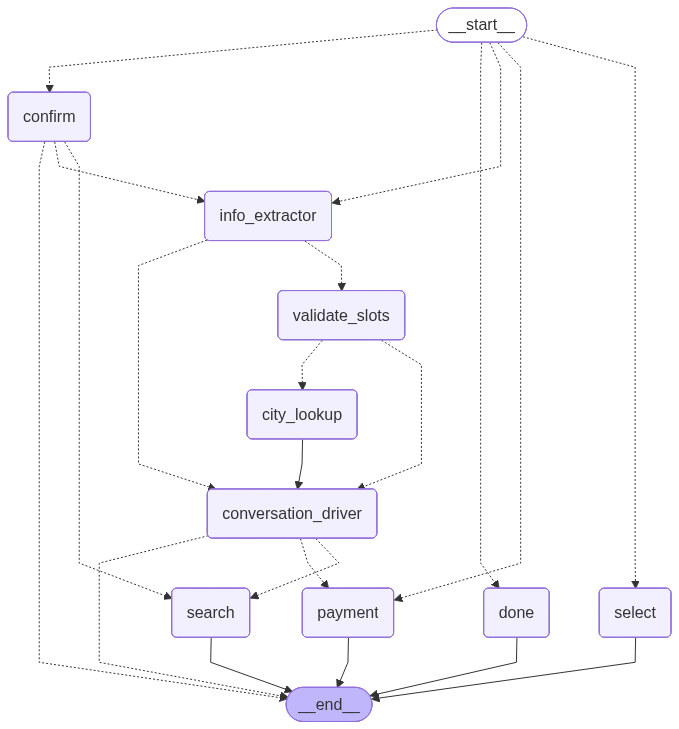
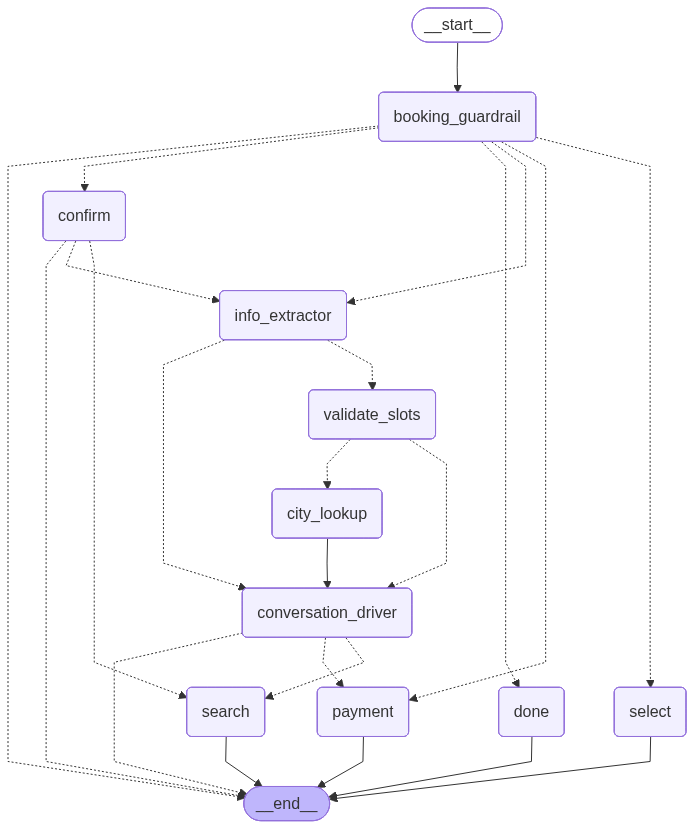
updated graphs

diff --git a/advanced/flight-booking-assistant/graph/booking_subgraph.md b/advanced/flight-booking-assistant/graph/booking_subgraph.md
@@ -8,6 +8,7 @@ config:
 ---
 graph TD;
 	__start__([<p>__start__</p>]):::first
+	booking_guardrail(booking_guardrail)
 	info_extractor(info_extractor)
 	validate_slots(validate_slots)
 	city_lookup(city_lookup)
@@ -18,11 +19,13 @@ graph TD;
 	payment(payment)
 	done(done)
 	__end__([<p>__end__</p>]):::last
-	__start__ -.-> confirm;
-	__start__ -.-> done;
-	__start__ -.-> info_extractor;
-	__start__ -.-> payment;
-	__start__ -.-> select;
+	__start__ --> booking_guardrail;
+	booking_guardrail -.-> __end__;
+	booking_guardrail -.-> confirm;
+	booking_guardrail -.-> done;
+	booking_guardrail -.-> info_extractor;
+	booking_guardrail -.-> payment;
+	booking_guardrail -.-> select;
 	city_lookup --> conversation_driver;
 	confirm -.-> __end__;
 	confirm -.-> info_extractor;

diff --git a/advanced/flight-booking-assistant/graph/pnr_subgraph.md b/advanced/flight-booking-assistant/graph/pnr_subgraph.md
@@ -14,9 +14,9 @@ graph TD;
 	__end__([<p>__end__</p>]):::last
 	__start__ -.-> conversation_driver;
 	__start__ -.-> info_extractor;
-	conversation_driver --> info_extractor;
 	info_extractor -.-> conversation_driver;
 	info_extractor -.-> pnr_lookup;
+	conversation_driver --> __end__;
 	pnr_lookup --> __end__;
 	classDef default fill:#f2f0ff,line-height:1.2
 	classDef first fill-opacity:0